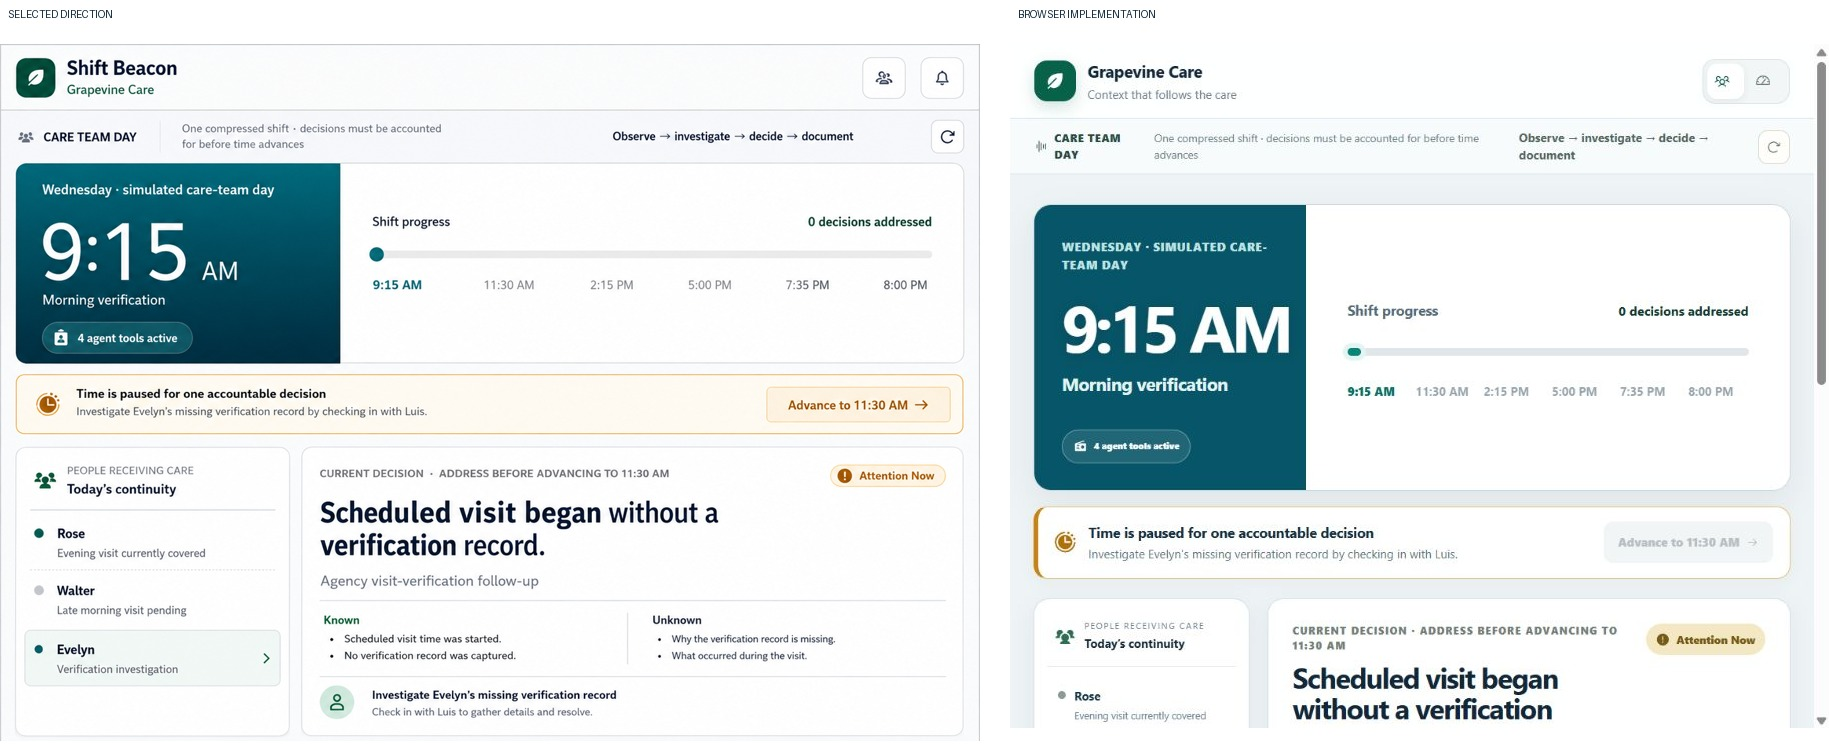
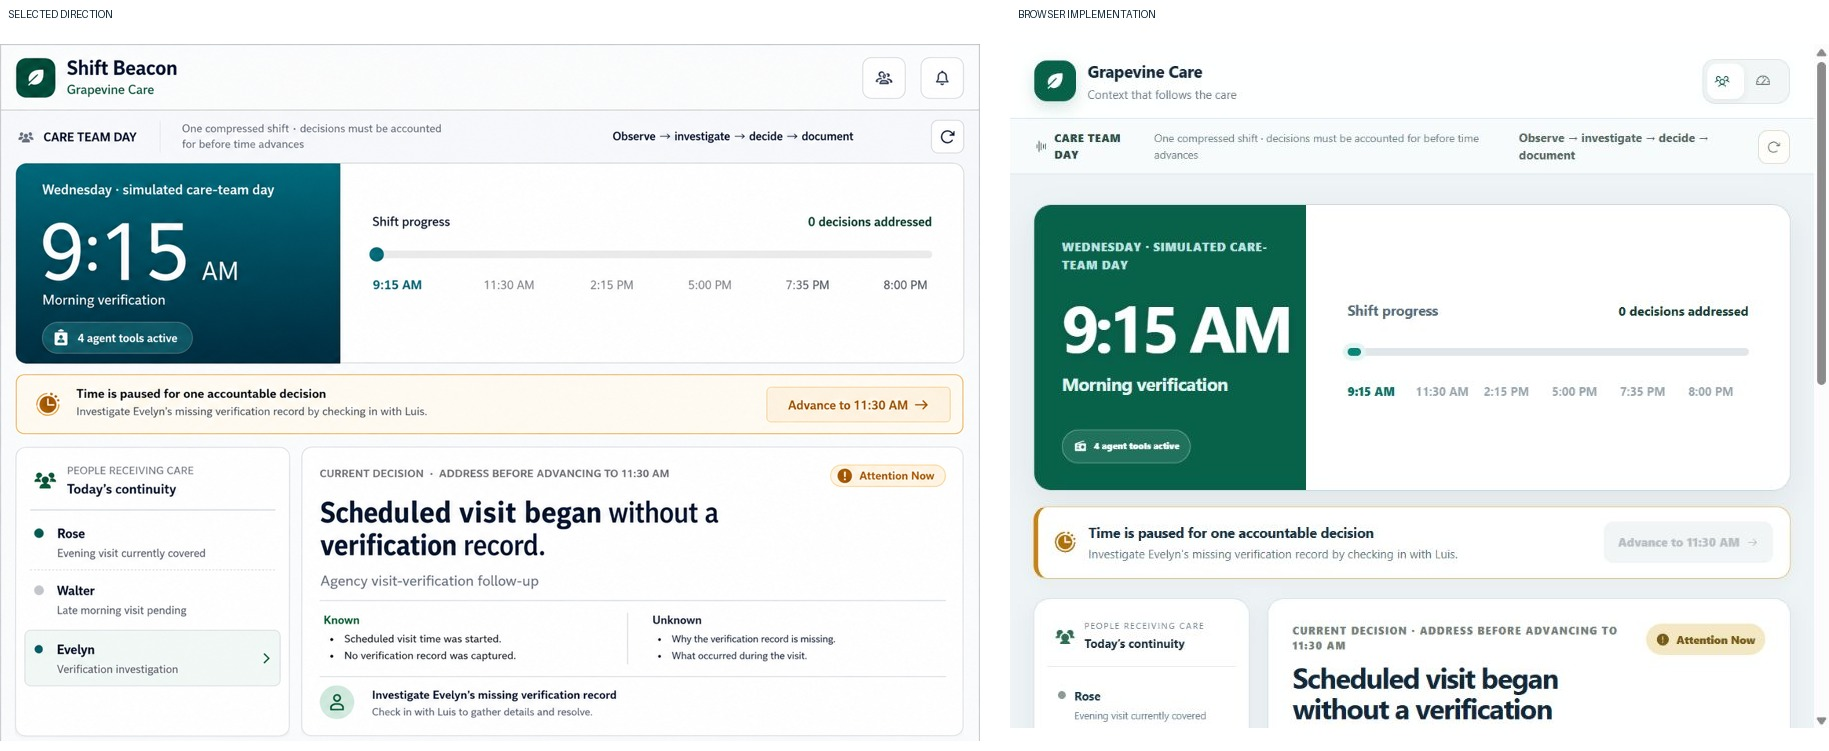
Unify Care Team Day brand green

Changed region(s): [[0.561, 0.2756, 0.7168, 0.6738]]

diff --git a/src/styles.css b/src/styles.css
@@ -1,6 +1,7 @@
 @import "tailwindcss";
 
 :root {
+  --grapevine-green: #08624a;
   font-family: Inter, ui-sans-serif, system-ui, -apple-system, BlinkMacSystemFont, "Segoe UI", sans-serif;
   color: #12283a;
   background: #eef3f5;
@@ -17,7 +18,7 @@ button { cursor: pointer; }
 .care-shell { min-height: 100vh; }
 .care-header { min-height: 76px; padding: 12px clamp(20px, 3vw, 42px); border-bottom: 1px solid #d6e0e4; display: flex; align-items: center; justify-content: space-between; gap: 20px; background: rgba(255,255,255,.96); position: sticky; top: 0; z-index: 20; backdrop-filter: blur(16px); }
 .brand { display: flex; align-items: center; gap: 12px; color: inherit; text-decoration: none; }
-.brand-mark { width: 42px; height: 42px; display: grid; place-items: center; border-radius: 13px; color: #fff; background: #08624a; box-shadow: 0 6px 16px rgba(8,98,74,.18); }
+.brand-mark { width: 42px; height: 42px; display: grid; place-items: center; border-radius: 13px; color: #fff; background: var(--grapevine-green); box-shadow: 0 6px 16px rgba(8,98,74,.18); }
 .brand-mark svg { width: 21px; height: 21px; }
 .brand > span:last-child { display: grid; gap: 2px; }
 .brand strong { font-size: 17px; letter-spacing: -.02em; }
@@ -271,7 +272,7 @@ button:disabled { cursor: not-allowed; opacity: .55; }
 .team-day-hero h1 { max-width: 850px; margin: 7px 0 0; font-family: Georgia, "Times New Roman", serif; font-size: clamp(35px, 4.2vw, 56px); line-height: 1.02; letter-spacing: -.05em; }
 .team-day-hero > div:first-child > p:last-child { max-width: 720px; margin: 13px 0 0; color: #61736a; line-height: 1.65; }
 .team-day-controls { display: flex; align-items: center; gap: 10px; }
-.team-day-controls > button, .primary-inline, .orientation-card > button { min-height: 39px; padding: 0 15px; display: inline-flex; align-items: center; justify-content: center; gap: 7px; border: 0; border-radius: 10px; background: #174b39; color: white; font-size: 10px; font-weight: 850; }
+.team-day-controls > button, .primary-inline, .orientation-card > button { min-height: 39px; padding: 0 15px; display: inline-flex; align-items: center; justify-content: center; gap: 7px; border: 0; border-radius: 10px; background: var(--grapevine-green); color: white; font-size: 10px; font-weight: 850; }
 .team-day-controls > button svg { width: 14px; height: 14px; }
 .team-day-grid { margin-top: 20px; display: grid; grid-template-columns: 250px minmax(0,1fr); gap: 18px; align-items: start; }
 .team-rail, .attention-workspace, .day-timeline { border: 1px solid #d4dfe4; border-radius: 16px; background: #fff; box-shadow: 0 8px 24px rgba(20,48,65,.055); }
@@ -351,7 +352,7 @@ button:disabled { cursor: not-allowed; opacity: .55; }
 /* Care Team Day: time-led, one-decision-at-a-time workspace */
 .demo-bar.simplified .inquiry-rule { color: #52665c; font-size: 12px; font-weight: 750; }
 .day-clock-hero { min-height: 292px; padding: 0; overflow: hidden; display: grid; grid-template-columns: minmax(340px, 35%) minmax(0,1fr); grid-template-rows: 1fr; align-items: stretch; gap: 0; border: 1px solid #cbd8de; border-radius: 18px; background: #fff; color: #12283a; box-shadow: 0 12px 32px rgba(17,49,67,.075); }
-.day-clock { grid-column: 1; grid-row: 1; padding: 34px 38px 86px; display: grid; align-content: start; background: #075568; color: #fff; }
+.day-clock { grid-column: 1; grid-row: 1; padding: 34px 38px 86px; display: grid; align-content: start; background: var(--grapevine-green); color: #fff; }
 .day-clock small { color: #bfe2e2; font-size: 12px; font-weight: 800; letter-spacing: .035em; text-transform: uppercase; }
 .day-clock strong { margin-top: 23px; font-family: Inter,ui-sans-serif,system-ui,sans-serif; font-size: clamp(66px,7vw,96px); font-weight: 650; line-height: .9; letter-spacing: -.065em; font-variant-numeric: tabular-nums; text-wrap: nowrap; text-shadow: 0 2px 14px rgba(0,29,43,.2); }
 .day-clock span { margin-top: 17px; color: #e4f4f3; font-size: 18px; font-weight: 650; letter-spacing: -.015em; }
@@ -375,7 +376,7 @@ button:disabled { cursor: not-allowed; opacity: .55; }
 .time-gate > div > span { display: grid; gap: 3px; }
 .time-gate strong { color: #152e3e; font-size: 14px; }
 .time-gate small { color: #637783; font-size: 12px; line-height: 1.4; }
-.time-gate > button, .primary-inline, .secondary-inline, .candidate-list button { min-height: 42px; padding: 0 15px; display: inline-flex; align-items: center; justify-content: center; gap: 7px; border: 0; border-radius: 10px; background: #174b39; color: #fff; font-size: 12px; font-weight: 850; }
+.time-gate > button, .primary-inline, .secondary-inline, .candidate-list button { min-height: 42px; padding: 0 15px; display: inline-flex; align-items: center; justify-content: center; gap: 7px; border: 0; border-radius: 10px; background: var(--grapevine-green); color: #fff; font-size: 12px; font-weight: 850; }
 .time-gate > button:disabled { color: #7d8990; background: #e7ecee; cursor: not-allowed; }
 .team-day-grid.focused { grid-template-columns: 270px minmax(0,1fr); }
 .focused-workspace { padding: clamp(22px,3vw,34px); }
@@ -437,7 +438,7 @@ button:disabled { cursor: not-allowed; opacity: .55; }
 .team-day-invitation strong, .team-day-invitation small { display: block; }
 .team-day-invitation strong { margin-top: 3px; font-family: Georgia, "Times New Roman", serif; font-size: 17px; font-weight: 500; }
 .team-day-invitation small { margin-top: 4px; color: #64756c; font-size: 9px; line-height: 1.45; }
-.team-day-invitation > button { min-height: 38px; padding: 0 13px; display: inline-flex; align-items: center; gap: 6px; border: 0; border-radius: 10px; color: #fff; background: #285b49; font-size: 9px; font-weight: 850; }
+.team-day-invitation > button { min-height: 38px; padding: 0 13px; display: inline-flex; align-items: center; gap: 6px; border: 0; border-radius: 10px; color: #fff; background: var(--grapevine-green); font-size: 9px; font-weight: 850; }
 .team-day-invitation > button svg { width: 13px; height: 13px; }
 .continuity-tabs { margin-bottom: 20px; }
 .context-disclosure { margin-top: 16px; border: 1px solid #d8d9d0; border-radius: 18px; background: #fffefa; }

diff --git a/design-qa.md b/design-qa.md
@@ -19,6 +19,7 @@ The implementation was inspected in the same interaction state and at the top of
 - The gate remains directly below the time region and clearly explains why advancement is disabled.
 - The residents rail remains secondary to the current-decision workspace.
 - The cooler blue-gray canvas, white operational surfaces, deep teal, ink typography, and restrained amber attention treatment are consistent with the selected direction.
+- The logo tile, time beacon, and primary Care Team Day actions now share the single `--grapevine-green` brand token (`#08624a`).
 - The real Grapevine Care brand and existing navigation labels were intentionally preserved instead of adopting concept-only brand copy.
 
 ## Focused comparison evidence
@@ -51,6 +52,7 @@ No actionable P0, P1, or P2 visual differences remain. The narrower browser capt
 
 - Initial local capture was blocked by stale local D1 preview state. The existing state was moved to a recoverable backup, migrations were applied to a fresh local preview database, and the same Care Team Day state was recaptured successfully.
 - The first valid visual comparison found no P0/P1/P2 design mismatches. No post-comparison visual fixes were required.
+- Browser annotation follow-up: the time beacon and primary actions were consolidated onto the exact logo green, then recaptured in the same state. The final comparison artifacts contain this matched palette.
 
 ## Follow-up polish
 
